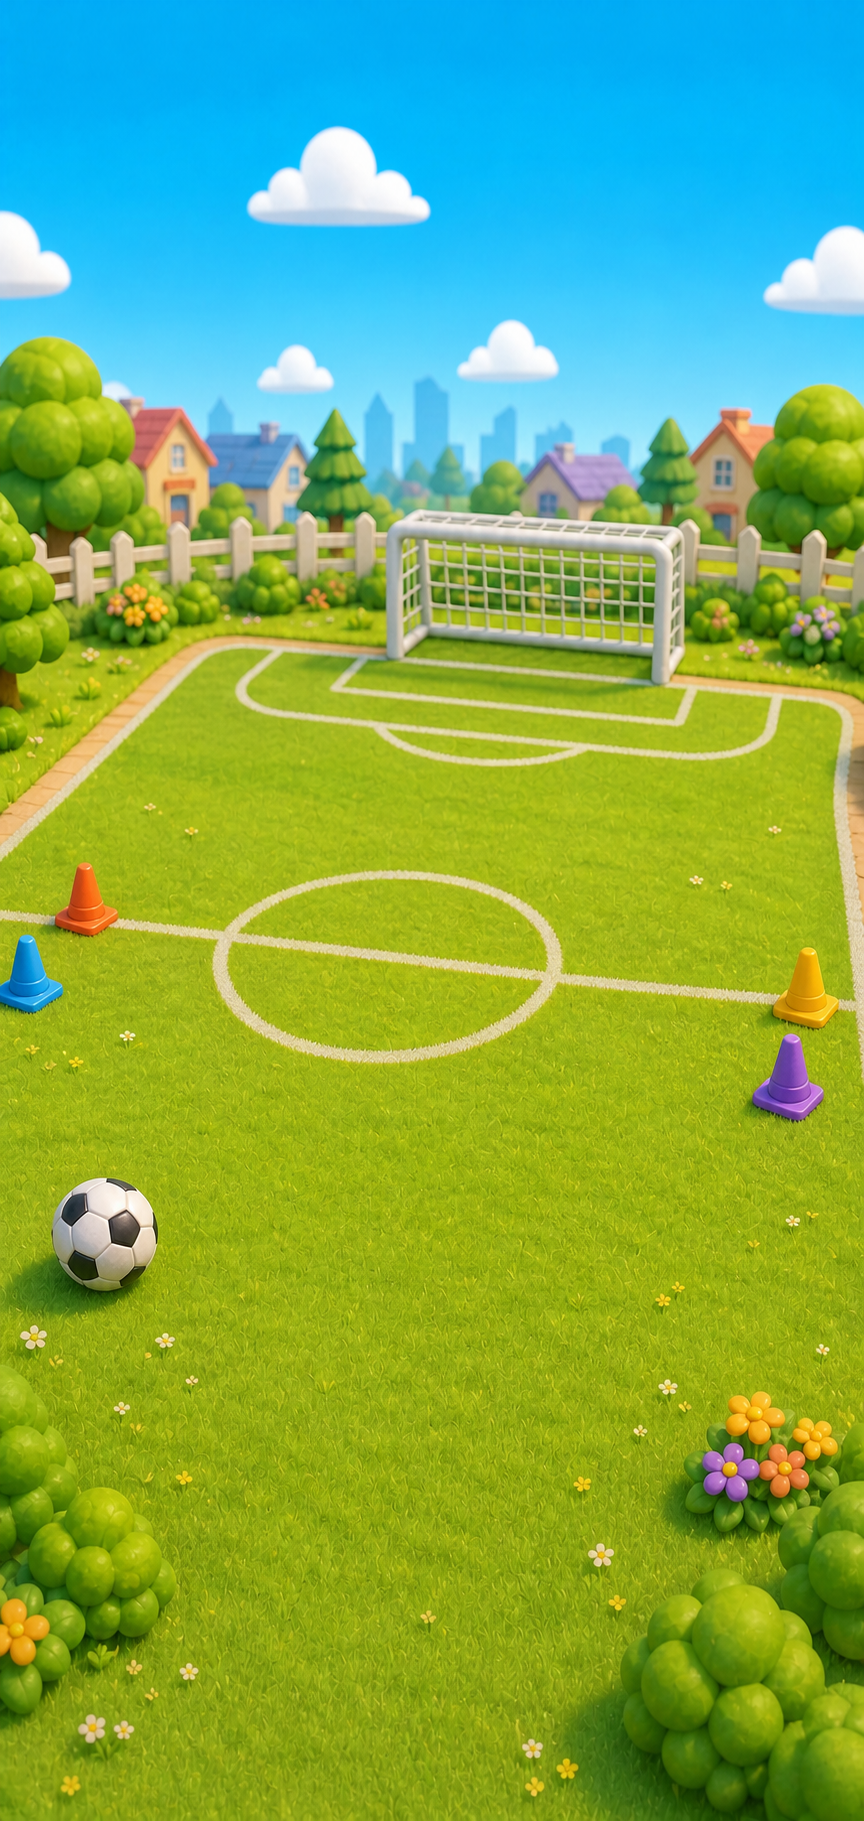
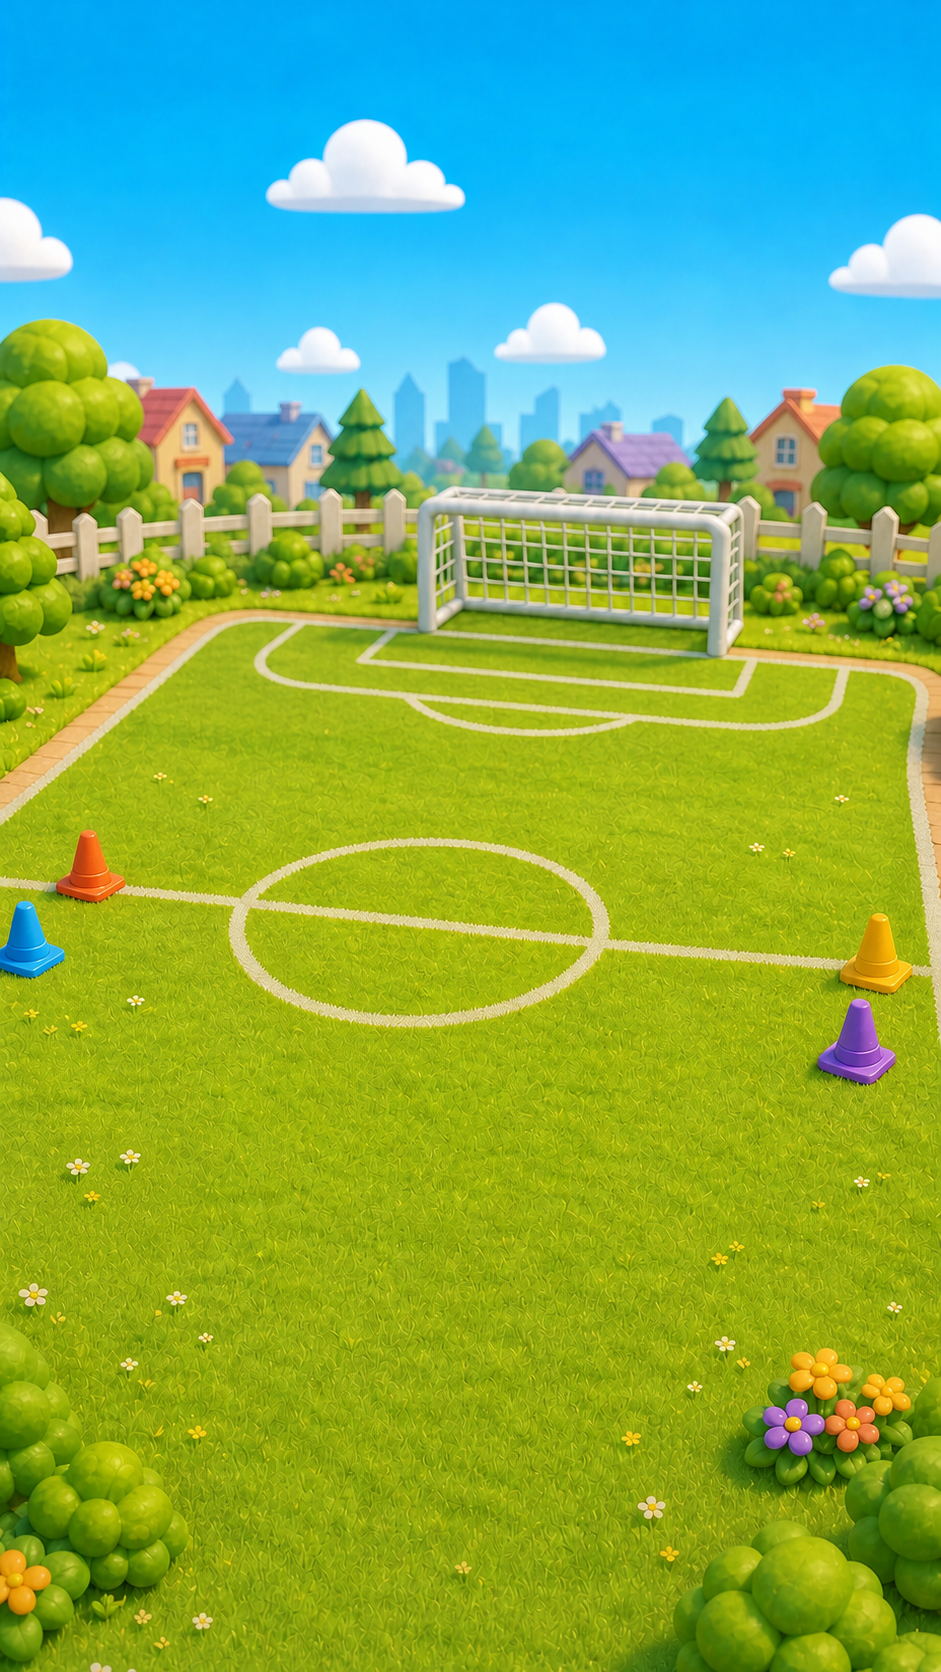
Add equipment rewards and inventory

diff --git a/app/page.tsx b/app/page.tsx
@@ -79,6 +79,16 @@ type ActivityApproval = {
   requested_day: string;
   requested_at: string;
 };
+type EquipmentCategory = "ball" | "hand" | "music" | "wearable" | "toy";
+type EquipmentItem = {
+  id: string;
+  label: string;
+  category: EquipmentCategory;
+  sheet: "a" | "b";
+  col: number;
+  row: number;
+  price: number;
+};
 
 type ScreenWakeLock = {
   released: boolean;
@@ -203,6 +213,44 @@ const COMPANIONS = [
 
 const STARTER_COMPANIONS = new Set(COMPANIONS.slice(0, 5).map((companion) => companion.id));
 
+const EQUIPMENT_NAMES_A = [
+  "Bola de futebol", "Bola de basquete", "Bola de vôlei", "Bola de tênis", "Bola de rugby",
+  "Bola de beisebol", "Bola de boliche", "Bola de praia", "Bola de queimada", "Bola de handebol",
+  "Bumerangue", "Pipa", "Tablet", "Microfone", "Fones de ouvido",
+  "Violão", "Teclado musical", "Pandeiro", "Tambor", "Trompete",
+  "Flauta", "Violino", "Ukulele", "Maracas", "Gaita",
+  "Skate", "Patinete", "Corda de pular", "Disco voador", "Bambolê",
+] as const;
+const EQUIPMENT_NAMES_B = [
+  "Binóculos", "Telescópio", "Lupa", "Câmera", "Lanterna",
+  "Mochila", "Lancheira", "Garrafa", "Guarda-chuva", "Óculos escuros",
+  "Chapéu pirata", "Coroa", "Chapéu de mago", "Capacete espacial", "Capa de herói",
+  "Kit de pintura", "Giz de cera", "Cubo colorido", "Blocos de montar", "Xadrez",
+  "Robô", "Foguete", "Carrinho", "Trenzinho", "Dinossauro",
+  "Kit de jardinagem", "Kit de chef", "Kit de médico", "Kit de ciências", "Barraca",
+] as const;
+
+const EQUIPMENT: EquipmentItem[] = [
+  ...EQUIPMENT_NAMES_A.map((label, index) => ({
+    id: label.normalize("NFD").replace(/[\u0300-\u036f]/g, "").toLowerCase().replace(/[^a-z0-9]+/g, "-"),
+    label,
+    category: (index < 10 ? "ball" : index < 15 ? "hand" : index < 25 ? "music" : "toy") as EquipmentCategory,
+    sheet: "a" as const,
+    col: index % 5,
+    row: Math.floor(index / 5),
+    price: index === 0 ? 0 : 50 + index * 10,
+  })),
+  ...EQUIPMENT_NAMES_B.map((label, index) => ({
+    id: label.normalize("NFD").replace(/[\u0300-\u036f]/g, "").toLowerCase().replace(/[^a-z0-9]+/g, "-"),
+    label,
+    category: (index < 10 ? "hand" : index < 15 ? "wearable" : "toy") as EquipmentCategory,
+    sheet: "b" as const,
+    col: index % 5,
+    row: Math.floor(index / 5),
+    price: 180 + index * 10,
+  })),
+];
+
 const DEFAULT_REWARDS: Reward[] = [
   { id: "avatars", title: "Novos avatares", helper: "Desbloquear visuais do Kike", price: 80, icon: Palette, accent: "#8b65d8", action: "avatars" },
   { id: "tablet", title: "30 min no tablet", helper: "Tempo extra aprovado pelos pais", price: 150, icon: Timer, accent: "#3a9ee8", timerMinutes: 30 },
@@ -227,6 +275,10 @@ function spritePosition(col: number, row: number) {
   return `${col * 25}% ${row * 33.333}%`;
 }
 
+function equipmentPosition(col: number, row: number) {
+  return `${col * 25}% ${row * 20}%`;
+}
+
 function localDay(date = new Date()) {
   const year = date.getFullYear();
   const month = String(date.getMonth() + 1).padStart(2, "0");
@@ -247,6 +299,7 @@ export default function HomePage() {
   const [avatarOpen, setAvatarOpen] = useState(false);
   const [characterTab, setCharacterTab] = useState<"kike" | "companion">("kike");
   const [rewardsOpen, setRewardsOpen] = useState(false);
+  const [equipmentOpen, setEquipmentOpen] = useState(false);
   const [parentsOpen, setParentsOpen] = useState(false);
   const [rewards, setRewards] = useState<Reward[]>(DEFAULT_REWARDS);
   const [rewardMessage, setRewardMessage] = useState("Escolha uma recompensa");
@@ -275,6 +328,12 @@ export default function HomePage() {
   const [companionId, setCompanionId] = useState<(typeof COMPANIONS)[number]["id"]>("yorkie-classica");
   const [previewCompanionId, setPreviewCompanionId] = useState<(typeof COMPANIONS)[number]["id"]>("yorkie-classica");
   const [unlockedCompanions, setUnlockedCompanions] = useState<Set<string>>(() => new Set(STARTER_COMPANIONS));
+  const [unlockedEquipment, setUnlockedEquipment] = useState<Set<string>>(() => new Set(["bola-de-futebol"]));
+  const [equippedItems, setEquippedItems] = useState<string[]>(["bola-de-futebol"]);
+  const [previewEquipmentId, setPreviewEquipmentId] = useState("bola-de-futebol");
+  const [equipmentFilter, setEquipmentFilter] = useState<"all" | EquipmentCategory>("all");
+  const [equipmentMessage, setEquipmentMessage] = useState("Equipe até dois itens");
+  const [equipmentPurchasePending, setEquipmentPurchasePending] = useState(false);
   const [action, setAction] = useState<"idle" | "wave" | "celebrate">("wave");
   const [showRoutines, setShowRoutines] = useState(true);
   const routine = useMemo(() => routines.find((item) => item.id === routineId) ?? routines[0], [routineId, routines]);
@@ -282,6 +341,8 @@ export default function HomePage() {
   const previewAvatar = AVATARS.find((item) => item.id === previewAvatarId) ?? AVATARS[0];
   const selectedCompanion = COMPANIONS.find((item) => item.id === companionId) ?? COMPANIONS[0];
   const previewCompanion = COMPANIONS.find((item) => item.id === previewCompanionId) ?? COMPANIONS[0];
+  const previewEquipment = EQUIPMENT.find((item) => item.id === previewEquipmentId) ?? EQUIPMENT[0];
+  const activeEquipment = equippedItems.map((id) => EQUIPMENT.find((item) => item.id === id)).filter((item): item is EquipmentItem => Boolean(item));
   const completedNow = completed[routine.id] ?? [];
   const totalDone = Object.values(completed).reduce((sum, list) => sum + list.length, 0);
   const maxActivityCount = Math.max(1, ...activityTotals.map((item) => Number(item.count)));
@@ -413,6 +474,12 @@ export default function HomePage() {
       if (validCompanionUnlocks.length) {
         window.queueMicrotask(() => setUnlockedCompanions(new Set([...STARTER_COMPANIONS, ...validCompanionUnlocks])));
       }
+      const savedEquipmentUnlocks = JSON.parse(window.localStorage.getItem("kike-unlocked-equipment") ?? "[]") as string[];
+      const validEquipmentUnlocks = savedEquipmentUnlocks.filter((id) => EQUIPMENT.some((item) => item.id === id));
+      if (validEquipmentUnlocks.length) window.queueMicrotask(() => setUnlockedEquipment(new Set(["bola-de-futebol", ...validEquipmentUnlocks])));
+      const savedEquipped = JSON.parse(window.localStorage.getItem("kike-equipped-items") ?? "[]") as string[];
+      const validEquipped = savedEquipped.filter((id) => EQUIPMENT.some((item) => item.id === id)).slice(-2);
+      if (validEquipped.length) window.queueMicrotask(() => setEquippedItems(validEquipped));
     } catch {
       // Keep the safe defaults when a local draft cannot be read.
     }
@@ -703,6 +770,65 @@ export default function HomePage() {
     }
   }
 
+  function equipItem(item: EquipmentItem) {
+    setEquippedItems((current) => {
+      if (current.includes(item.id)) {
+        const next = current.filter((id) => id !== item.id);
+        window.localStorage.setItem("kike-equipped-items", JSON.stringify(next));
+        setEquipmentMessage(`${item.label} foi guardado`);
+        return next;
+      }
+      const withoutSameCategory = current.filter((id) => EQUIPMENT.find((candidate) => candidate.id === id)?.category !== item.category);
+      const next = [...withoutSameCategory, item.id].slice(-2);
+      window.localStorage.setItem("kike-equipped-items", JSON.stringify(next));
+      setEquipmentMessage(`${item.label} equipado${withoutSameCategory.length !== current.length ? " no lugar do item anterior" : ""}`);
+      return next;
+    });
+  }
+
+  function previewEquipmentChoice(item: EquipmentItem) {
+    setPreviewEquipmentId(item.id);
+    if (unlockedEquipment.has(item.id)) {
+      setEquipmentMessage(equippedItems.includes(item.id) ? `${item.label} está equipado` : `${item.label} disponível para equipar`);
+    } else {
+      setEquipmentMessage(stars < item.price ? `Faltam ${item.price - stars} estrelas` : `Desbloquear custa ${item.price} estrelas`);
+    }
+  }
+
+  async function confirmEquipmentChoice() {
+    const item = previewEquipment;
+    if (unlockedEquipment.has(item.id)) {
+      equipItem(item);
+      return;
+    }
+    if (stars < item.price) {
+      setEquipmentMessage(`Faltam ${item.price - stars} estrelas para desbloquear`);
+      return;
+    }
+    setEquipmentPurchasePending(true);
+    try {
+      const response = await fetch("/api/progress", {
+        method: "POST",
+        headers: { "Content-Type": "application/json" },
+        body: JSON.stringify({ eventType: "spent", points: item.price, activity: `Equipamento: ${item.label}`, day: localDay() }),
+      });
+      const data = await response.json() as { balance?: number; message?: string };
+      if (!response.ok) throw new Error(data.message ?? "Não foi possível desbloquear");
+      const nextUnlocks = new Set([...unlockedEquipment, item.id]);
+      setUnlockedEquipment(nextUnlocks);
+      window.localStorage.setItem("kike-unlocked-equipment", JSON.stringify([...nextUnlocks]));
+      setStars(Number(data.balance ?? stars - item.price));
+      setBalanceDraft(String(data.balance ?? stars - item.price));
+      equipItem(item);
+      setEquipmentMessage(`${item.label} desbloqueado e equipado!`);
+      await loadProgress();
+    } catch (error) {
+      setEquipmentMessage(error instanceof Error ? error.message : "Não foi possível desbloquear");
+    } finally {
+      setEquipmentPurchasePending(false);
+    }
+  }
+
   function redeemReward(item: Reward) {
     if (item.action === "avatars") {
       setRewardsOpen(false);
@@ -881,6 +1007,18 @@ export default function HomePage() {
           aria-label={`Cachorrinha Yorkshire Terrier ${selectedCompanion.label} acompanhando o Kike`}
           style={{ backgroundPosition: spritePosition(selectedCompanion.col, selectedCompanion.row) }}
         />
+        {activeEquipment.map((item, index) => (
+          <div
+            className={`equipment-scene-layer equipment-slot-${index + 1}`}
+            key={item.id}
+            role="img"
+            aria-label={`${item.label} equipado`}
+            style={{
+              backgroundImage: `url("/kike-equipment-sprites-${item.sheet}.png")`,
+              backgroundPosition: equipmentPosition(item.col, item.row),
+            }}
+          />
+        ))}
         <div className="scene-shade" aria-hidden="true" />
 
         <header className="top-hud">
@@ -1089,6 +1227,11 @@ export default function HomePage() {
               </div>
               <div className="store-balance"><Star size={20} fill="currentColor" /> {stars}</div>
             </div>
+            <button className="equipment-store-entry" onClick={() => { setRewardsOpen(false); setEquipmentOpen(true); }}>
+              <span className="equipment-entry-preview" aria-hidden="true" />
+              <span><strong>Equipamentos e skins</strong><small>60 itens · equipe no máximo 2</small></span>
+              <ChevronRight />
+            </button>
             <div className="reward-grid">
               {rewards.map((item) => {
                 const Icon = item.icon;
@@ -1108,6 +1251,66 @@ export default function HomePage() {
               })}
             </div>
             <p className="parent-confirm-note"><ShieldCheck size={17} /> Prêmios do mundo real precisam da confirmação de um responsável.</p>
+          </section>
+        </div>
+      )}
+
+      {equipmentOpen && (
+        <div className="modal-backdrop" role="presentation" onMouseDown={() => setEquipmentOpen(false)}>
+          <section className="game-modal equipment-modal" role="dialog" aria-modal="true" aria-labelledby="equipment-title" onMouseDown={(event) => event.stopPropagation()}>
+            <button className="modal-close" onClick={() => setEquipmentOpen(false)} aria-label="Fechar"><X /></button>
+            <span className="eyebrow">INVENTÁRIO DE PRÊMIOS</span>
+            <h2 id="equipment-title">Equipamentos e skins</h2>
+            <div className="equipment-summary">
+              <div
+                className="equipment-large-preview"
+                style={{ backgroundImage: `url("/kike-equipment-sprites-${previewEquipment.sheet}.png")`, backgroundPosition: equipmentPosition(previewEquipment.col, previewEquipment.row) }}
+                role="img"
+                aria-label={previewEquipment.label}
+              />
+              <div><strong>{previewEquipment.label}</strong><span>{equipmentMessage}</span><small>{activeEquipment.length}/2 equipados</small></div>
+              <div className="store-balance"><Star size={18} fill="currentColor" /> {stars}</div>
+            </div>
+            <div className="equipment-filters">
+              {([
+                ["all", "Todos"], ["ball", "Bolas"], ["music", "Música"], ["wearable", "Skins"], ["hand", "Aventura"], ["toy", "Brincar"],
+              ] as const).map(([value, label]) => (
+                <button key={value} className={equipmentFilter === value ? "active" : ""} onClick={() => setEquipmentFilter(value)}>{label}</button>
+              ))}
+            </div>
+            <div className="equipment-grid">
+              {EQUIPMENT.filter((item) => equipmentFilter === "all" || item.category === equipmentFilter).map((item) => {
+                const unlocked = unlockedEquipment.has(item.id);
+                const equipped = equippedItems.includes(item.id);
+                return (
+                  <button
+                    key={item.id}
+                    className={`${item.id === previewEquipmentId ? "selected" : ""} ${unlocked ? "" : "locked"} ${equipped ? "equipped" : ""}`}
+                    onClick={() => previewEquipmentChoice(item)}
+                    aria-pressed={item.id === previewEquipmentId}
+                    aria-label={`${item.label}${equipped ? ", equipado" : unlocked ? "" : `, desbloquear por ${item.price} estrelas`}`}
+                  >
+                    <span className="equipment-choice-image" style={{ backgroundImage: `url("/kike-equipment-sprites-${item.sheet}.png")`, backgroundPosition: equipmentPosition(item.col, item.row) }} />
+                    <strong>{item.label}</strong>
+                    {!unlocked && <span className="avatar-price"><Lock size={11} /> {item.price}</span>}
+                    {equipped && <span className="equipment-check"><Check size={12} /></span>}
+                  </button>
+                );
+              })}
+            </div>
+            <div className="equipment-confirm">
+              {!unlockedEquipment.has(previewEquipment.id) && <span>Saldo depois: <Star size={13} fill="currentColor" /> {Math.max(0, stars - previewEquipment.price)}</span>}
+              <button
+                className="primary-action"
+                disabled={equipmentPurchasePending || (!unlockedEquipment.has(previewEquipment.id) && stars < previewEquipment.price)}
+                onClick={() => void confirmEquipmentChoice()}
+              >
+                {equipmentPurchasePending ? "DESBLOQUEANDO…"
+                  : unlockedEquipment.has(previewEquipment.id)
+                    ? equippedItems.includes(previewEquipment.id) ? "GUARDAR ITEM" : "EQUIPAR ITEM"
+                    : `DESBLOQUEAR POR ${previewEquipment.price}`}
+              </button>
+            </div>
           </section>
         </div>
       )}

diff --git a/app/globals.css b/app/globals.css
@@ -111,6 +111,10 @@ input, textarea { font: inherit; }
 
 .companion-image-layer.wave { animation: companion-wave .8s ease-in-out 2; }
 .companion-image-layer.celebrate { animation: companion-celebrate .45s ease-in-out 4; }
+.equipment-scene-layer { position: absolute; z-index: 1; width: min(15%, 106px); aspect-ratio: 1.01; border: 3px solid rgba(255,255,255,.78); border-radius: 50%; background-color: rgba(255,255,255,.7); background-size: 500% 600%; background-repeat: no-repeat; pointer-events: none; box-shadow: 0 9px 18px rgba(20,70,62,.18); animation: equipment-float 3s ease-in-out infinite; }
+.equipment-slot-1 { left: 18%; top: 54%; }
+.equipment-slot-2 { right: 3%; top: 39%; animation-delay: -.8s; }
+@keyframes equipment-float { 0%, 100% { transform: translateY(0) rotate(-2deg); } 50% { transform: translateY(-6px) rotate(2deg); } }
 
 @keyframes companion-breathe {
   0%, 100% { transform: scale(1) translateY(0); }
@@ -442,6 +446,31 @@ input, textarea { font: inherit; }
 .store-reward-copy small { margin-top: 3px; color: #718093; }
 .store-reward-price { display: flex; align-items: center; gap: 3px; color: #b66d00; font-weight: 900; white-space: nowrap; }
 .parent-confirm-note { display: flex; align-items: center; justify-content: center; gap: 7px; margin: 16px 0 0; color: #65758b; font-size: 12px; }
+.equipment-store-entry { width: 100%; display: grid; grid-template-columns: auto 1fr auto; align-items: center; gap: 12px; margin-bottom: 14px; border: 3px solid #b5e5df; border-radius: 20px; padding: 12px; text-align: left; color: var(--ink); background: linear-gradient(135deg, #e7fbf7, #fff3c9); cursor: pointer; }
+.equipment-store-entry strong, .equipment-store-entry small { display: block; }
+.equipment-store-entry small { margin-top: 3px; color: #6f7f8e; }
+.equipment-entry-preview { width: 58px; aspect-ratio: 1; background: url("/kike-equipment-sprites-a.png") 0 0 / 500% 600% no-repeat; }
+.equipment-modal { width: min(100%, 760px); }
+.equipment-summary { display: grid; grid-template-columns: 105px 1fr auto; align-items: center; gap: 14px; margin-bottom: 12px; padding: 12px; border-radius: 20px; background: linear-gradient(135deg, #e9f9f5, #fff4cc); }
+.equipment-large-preview { width: 105px; aspect-ratio: 1.01; background-size: 500% 600%; background-repeat: no-repeat; filter: drop-shadow(0 8px 6px rgba(20,70,62,.17)); }
+.equipment-summary strong, .equipment-summary span, .equipment-summary small { display: block; }
+.equipment-summary strong { font-size: 20px; }
+.equipment-summary span { margin-top: 3px; color: #617587; }
+.equipment-summary small { margin-top: 5px; color: #178893; font-weight: 900; }
+.equipment-filters { display: flex; gap: 6px; overflow-x: auto; padding: 2px 1px 9px; scrollbar-width: none; }
+.equipment-filters button { flex: 0 0 auto; border: 0; border-radius: 12px; padding: 8px 11px; color: #68788a; background: #eaf3f1; font-weight: 900; cursor: pointer; }
+.equipment-filters button.active { color: white; background: #16a8b4; }
+.equipment-grid { display: grid; grid-template-columns: repeat(6, 1fr); gap: 7px; max-height: 42svh; overflow-y: auto; padding: 2px 3px 10px; }
+.equipment-grid button { position: relative; min-width: 0; border: 3px solid transparent; border-radius: 15px; padding: 5px; color: var(--ink); background: #edf6f3; cursor: pointer; }
+.equipment-grid button.selected { border-color: #18aab5; background: #def8f5; }
+.equipment-grid button.locked .equipment-choice-image { filter: grayscale(.25) brightness(.7); opacity: .72; }
+.equipment-grid button.equipped { box-shadow: inset 0 0 0 2px #35bd62; }
+.equipment-choice-image { display: block; width: 100%; aspect-ratio: 1.01; background-size: 500% 600%; background-repeat: no-repeat; }
+.equipment-grid strong { display: block; overflow: hidden; font-size: 9px; text-overflow: ellipsis; white-space: nowrap; }
+.equipment-check { position: absolute; left: 5px; top: 5px; width: 21px; height: 21px; display: grid; place-items: center; border-radius: 50%; color: white; background: #32bb5d; }
+.equipment-confirm { position: sticky; bottom: -24px; display: grid; grid-template-columns: auto minmax(220px, 1fr); align-items: center; gap: 12px; margin: 5px -3px -3px; padding: 10px 3px 3px; background: linear-gradient(transparent, var(--cream) 18%); }
+.equipment-confirm > span { display: flex; align-items: center; gap: 3px; color: #b46f00; font-size: 12px; font-weight: 900; }
+.equipment-confirm .primary-action { margin-top: 0; font-size: 20px; }
 
 .progress-modal { width: min(100%, 680px); }
 .progress-tabs { display: grid; grid-template-columns: 1fr 1fr; gap: 7px; margin: 2px 0 16px; padding: 5px; border-radius: 16px; background: #eaf3f1; }
@@ -624,6 +653,11 @@ input, textarea { font: inherit; }
   .mission-dock { padding: 15px; }
   .world-image { background-position: center 38%; }
   .reward-grid { grid-template-columns: 1fr; }
+  .equipment-grid { grid-template-columns: repeat(4, 1fr); }
+  .equipment-summary { grid-template-columns: 82px 1fr; }
+  .equipment-large-preview { width: 82px; }
+  .equipment-summary .store-balance { grid-column: 1 / -1; margin: 0; }
+  .equipment-confirm { grid-template-columns: 1fr; gap: 5px; }
   .config-list { grid-template-columns: 1fr; }
   .timer-config-list { grid-template-columns: 1fr; }
   .reward-config-card { grid-template-columns: 1fr 100px auto; }
@@ -671,6 +705,9 @@ input, textarea { font: inherit; }
   .music-mode .music-label { right: 4%; top: 18%; }
   .music-mode .character-image-layer { left: 38%; top: 42%; }
   .companion-image-layer { left: 52%; top: 58%; width: min(17%, 165px); }
+  .equipment-scene-layer { top: 63%; width: min(12%, 105px); }
+  .equipment-slot-1 { left: 25%; }
+  .equipment-slot-2 { right: 31%; }
 }
 
 @media (prefers-reduced-motion: reduce) {
